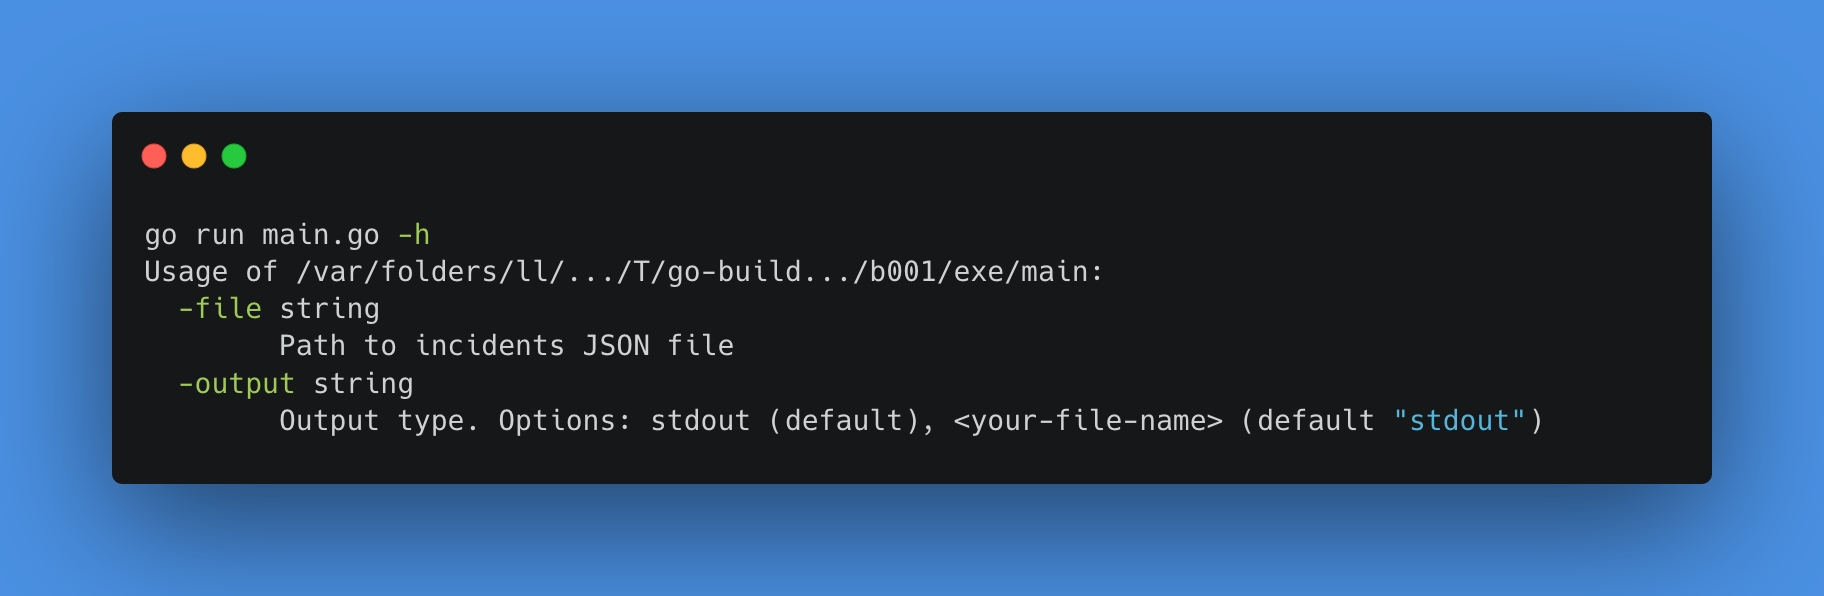
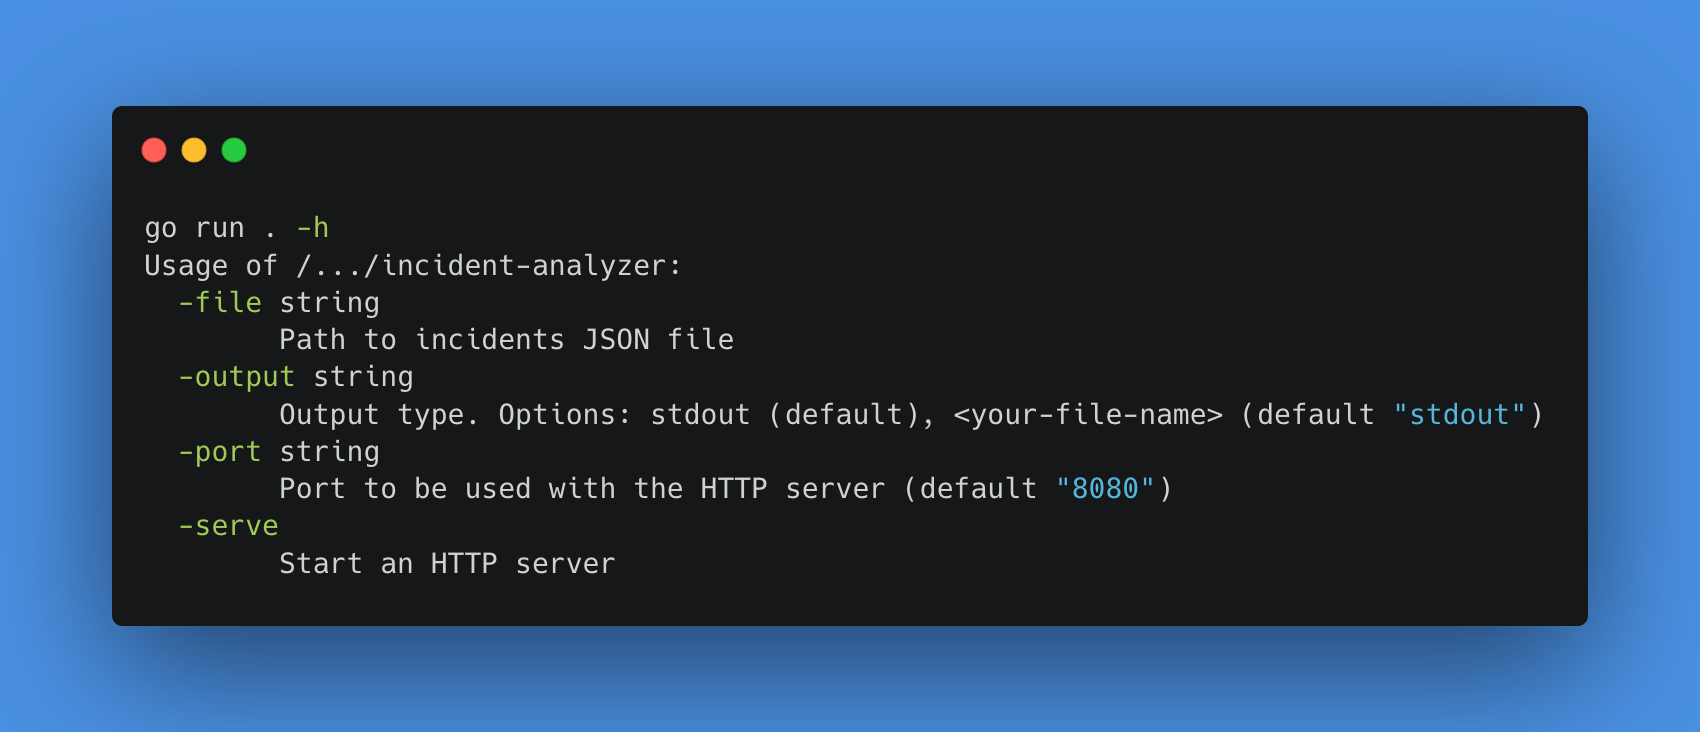
docs: :memo: Replaced obsolete images, updated readme

Changed region(s): [[0.0624, 0.1208, 0.9353, 0.8758], [0.9353, 0.2114, 0.9665, 0.7852], [0.5612, 0.5436, 0.9041, 0.604]]

diff --git a/README.md b/README.md
@@ -1,3 +1,5 @@
+![go serve output](images/go-serve.png)
+
 # Incident Log Analyzer
 
 ## What it does
@@ -20,8 +22,10 @@
 7. `time.Parse` and `time.Duration`
 8. `fmt.Println`, `fmt.Sprintf`, `log` package
 9. `go test` — writing your first test
+10. `net/http` package for exposing APIs
+11. `sync.RWMutex` for parallel read or one write lock
 
-**This project does not use those concepts:** interfaces, goroutines, channels, HTTP or external dependencies.
+**This project does not use those concepts:** interfaces, goroutines, channels or external dependencies.
 
 ## Available parameters
 
